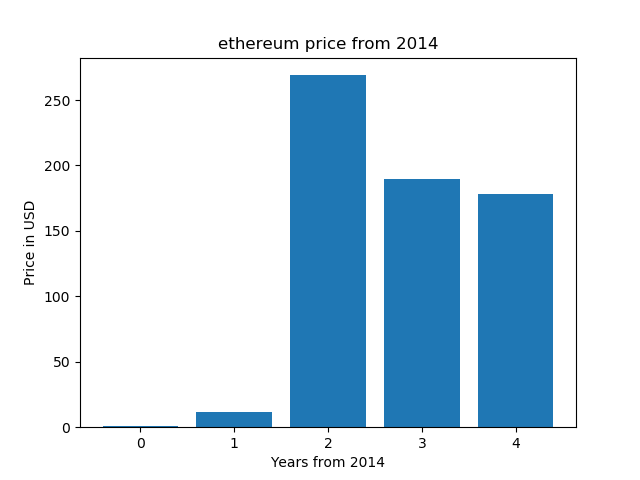
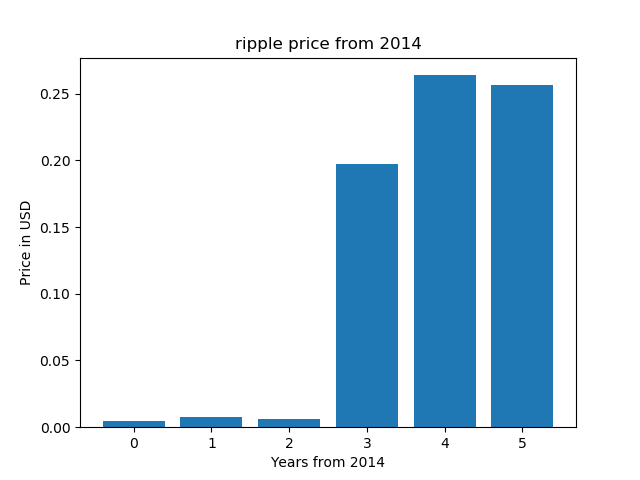
first commit

diff --git a/example.py b/example.py
@@ -10,7 +10,7 @@ from time import gmtime, strftime
 import matplotlib.pyplot as plt
 
 enddate = strftime("%Y%m%d", gmtime())
-r  = requests.get("https://coinmarketcap.com/currencies/ethereum/historical-data/?start=20140101&end={0}".format(enddate))
+r  = requests.get("https://coinmarketcap.com/currencies/ripple/historical-data/?start=20140101&end={0}".format(enddate))
 data = r.text
 
 soup = BeautifulSoup(data, "html.parser")
@@ -44,7 +44,7 @@ print(x)
 
 x = list(range(0, len(prices)))
 
-plt.title('ethereum price from 2014')
+plt.title('ripple price from 2014')
 plt.ylabel('Price in USD')
 plt.xlabel('Years from 2014')
 plt.bar(x, prices)

diff --git a/README.md b/README.md
@@ -1,6 +1,6 @@
-# ethereum price chart 
+# ripple price chart 
 
-ethereum price chart (matplotlib, python)
+ripple price chart (matplotlib, python)
 
 https://pythonprogramminglanguage.com
 
